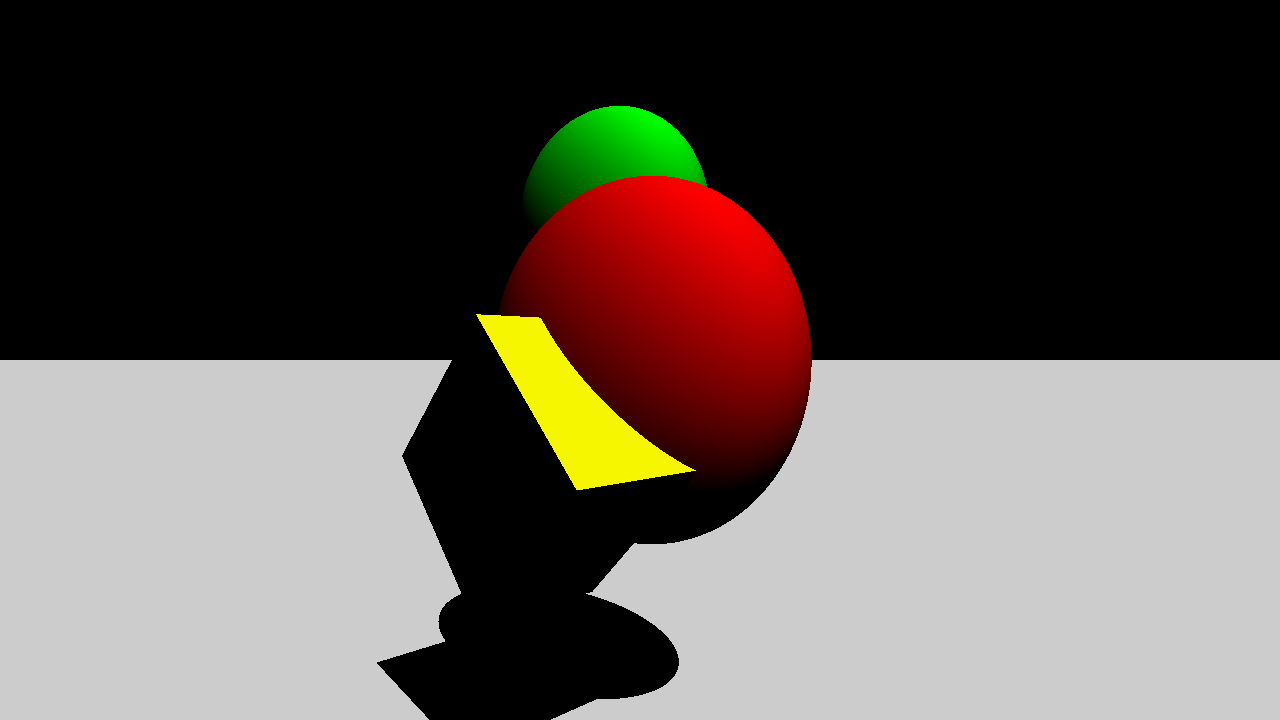
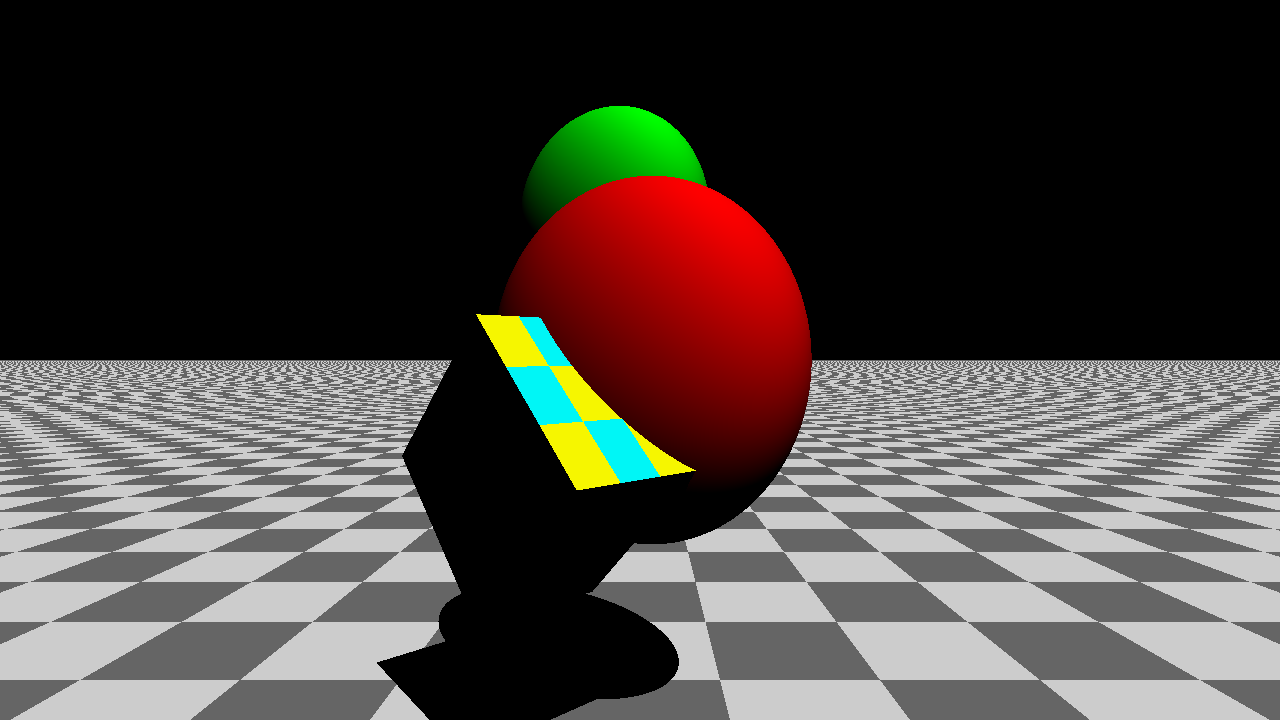
체커보드 구현

diff --git a/src/main.rs b/src/main.rs
@@ -8,6 +8,7 @@ use std::thread;
 use std::time::Instant;
 use util::mat4::Mat4;
 use util::vec3::Vec3;
+use util::vec4::Vec4;
 
 use crate::shape::*;
 use crate::transform::*;
@@ -18,8 +19,15 @@ const H: u32 = 720;
 const THREAD_COUNT: u32 = 16;
 
 #[derive(Clone, Copy)]
-pub struct Material {
-    color: Rgb<u8>,
+pub enum Material {
+    Simple {
+        color: Rgb<u8>,
+    },
+    Checkerboard {
+        color1: Rgb<u8>,
+        color2: Rgb<u8>,
+        scale: f32,
+    },
 }
 
 #[derive(Clone, Copy, Debug)]
@@ -79,27 +87,31 @@ fn main() {
 }
 
 fn make_env() -> Shape {
-    let mat_r = Material {
+    let mat_s1 = Material::Simple {
         color: Rgb([255, 0, 0]),
     };
-    let mat_g = Material {
+    let mat_s2 = Material::Simple {
         color: Rgb([0, 255, 0]),
     };
-    let mat_y = Material {
-        color: Rgb([255, 255, 0]),
+    let mat_c1 = Material::Checkerboard {
+        color1: Rgb([255, 255, 0]),
+        color2: Rgb([0, 255, 255]),
+        scale: 0.333333,
     };
-    let mat_w = Material {
-        color: Rgb([255, 255, 255]),
+    let mat_p1 = Material::Checkerboard {
+        color1: Rgb([255, 255, 255]),
+        color2: Rgb([127, 127, 127]),
+        scale: 1.0,
     };
 
-    let s1 = Shape::new(mat_r, Transform::default(), Mesh::Sphere { radius: 1.0 });
+    let s1 = Shape::new(mat_s1, Transform::default(), Mesh::Sphere { radius: 1.0 });
     let s2 = Shape::new(
-        mat_g,
+        mat_s2,
         Transform::from_t(Vec3::new(1.0, 1.0, -1.0)),
         Mesh::Sphere { radius: 0.8 },
     );
     let c1 = Shape::new(
-        mat_y,
+        mat_c1,
         Transform::from_tr(
             Vec3::new(-1.0, -0.5, 0.0),
             Quat::from_axis_angle(Vec3::new(1.0, 0.0, 0.0), PI / 4.0),
@@ -109,12 +121,12 @@ fn make_env() -> Shape {
         },
     );
     let p1 = Shape::new(
-        mat_w,
+        mat_p1,
         Transform::from_t(Vec3::new(0.0, -2.0, 0.0)),
         Mesh::InfinitePlane,
     );
     let env_shapes = Shape::new(
-        Material {
+        Material::Simple {
             color: Rgb([0, 0, 0]),
         },
         Transform::from_trs(
@@ -127,7 +139,7 @@ fn make_env() -> Shape {
         },
     );
     Shape::new(
-        Material {
+        Material::Simple {
             color: Rgb([0, 0, 0]),
         },
         Transform::default(),
@@ -163,11 +175,28 @@ fn render(i: u32, to_sun: Vec3, camera_center: Vec3, env: Shape) -> RgbImage {
                 };
                 if let Err(_) = env.intersect(sun_ray) {
                     let intensity = info.normal.angle(to_sun).cos().clamp(0.0, 1.0);
-                    img.put_pixel(
-                        w,
-                        h,
-                        Rgb(info.material.color.0.map(|i| (i as f32 * intensity) as u8)),
-                    );
+                    let color = match info.material {
+                        Material::Simple { color } => color,
+                        Material::Checkerboard {
+                            color1,
+                            color2,
+                            scale,
+                        } => {
+                            let local_pos =
+                                info.local_frame.invert().unwrap() * Vec4::from_vec3(info.pos, 1.0);
+                            if ((local_pos.x / scale).round() as i32
+                                + (local_pos.y / scale).round() as i32
+                                + (local_pos.z / scale).round() as i32)
+                                % 2
+                                == 0
+                            {
+                                color1
+                            } else {
+                                color2
+                            }
+                        }
+                    };
+                    img.put_pixel(w, h, Rgb(color.0.map(|i| (i as f32 * intensity) as u8)));
                 }
             }
         }
